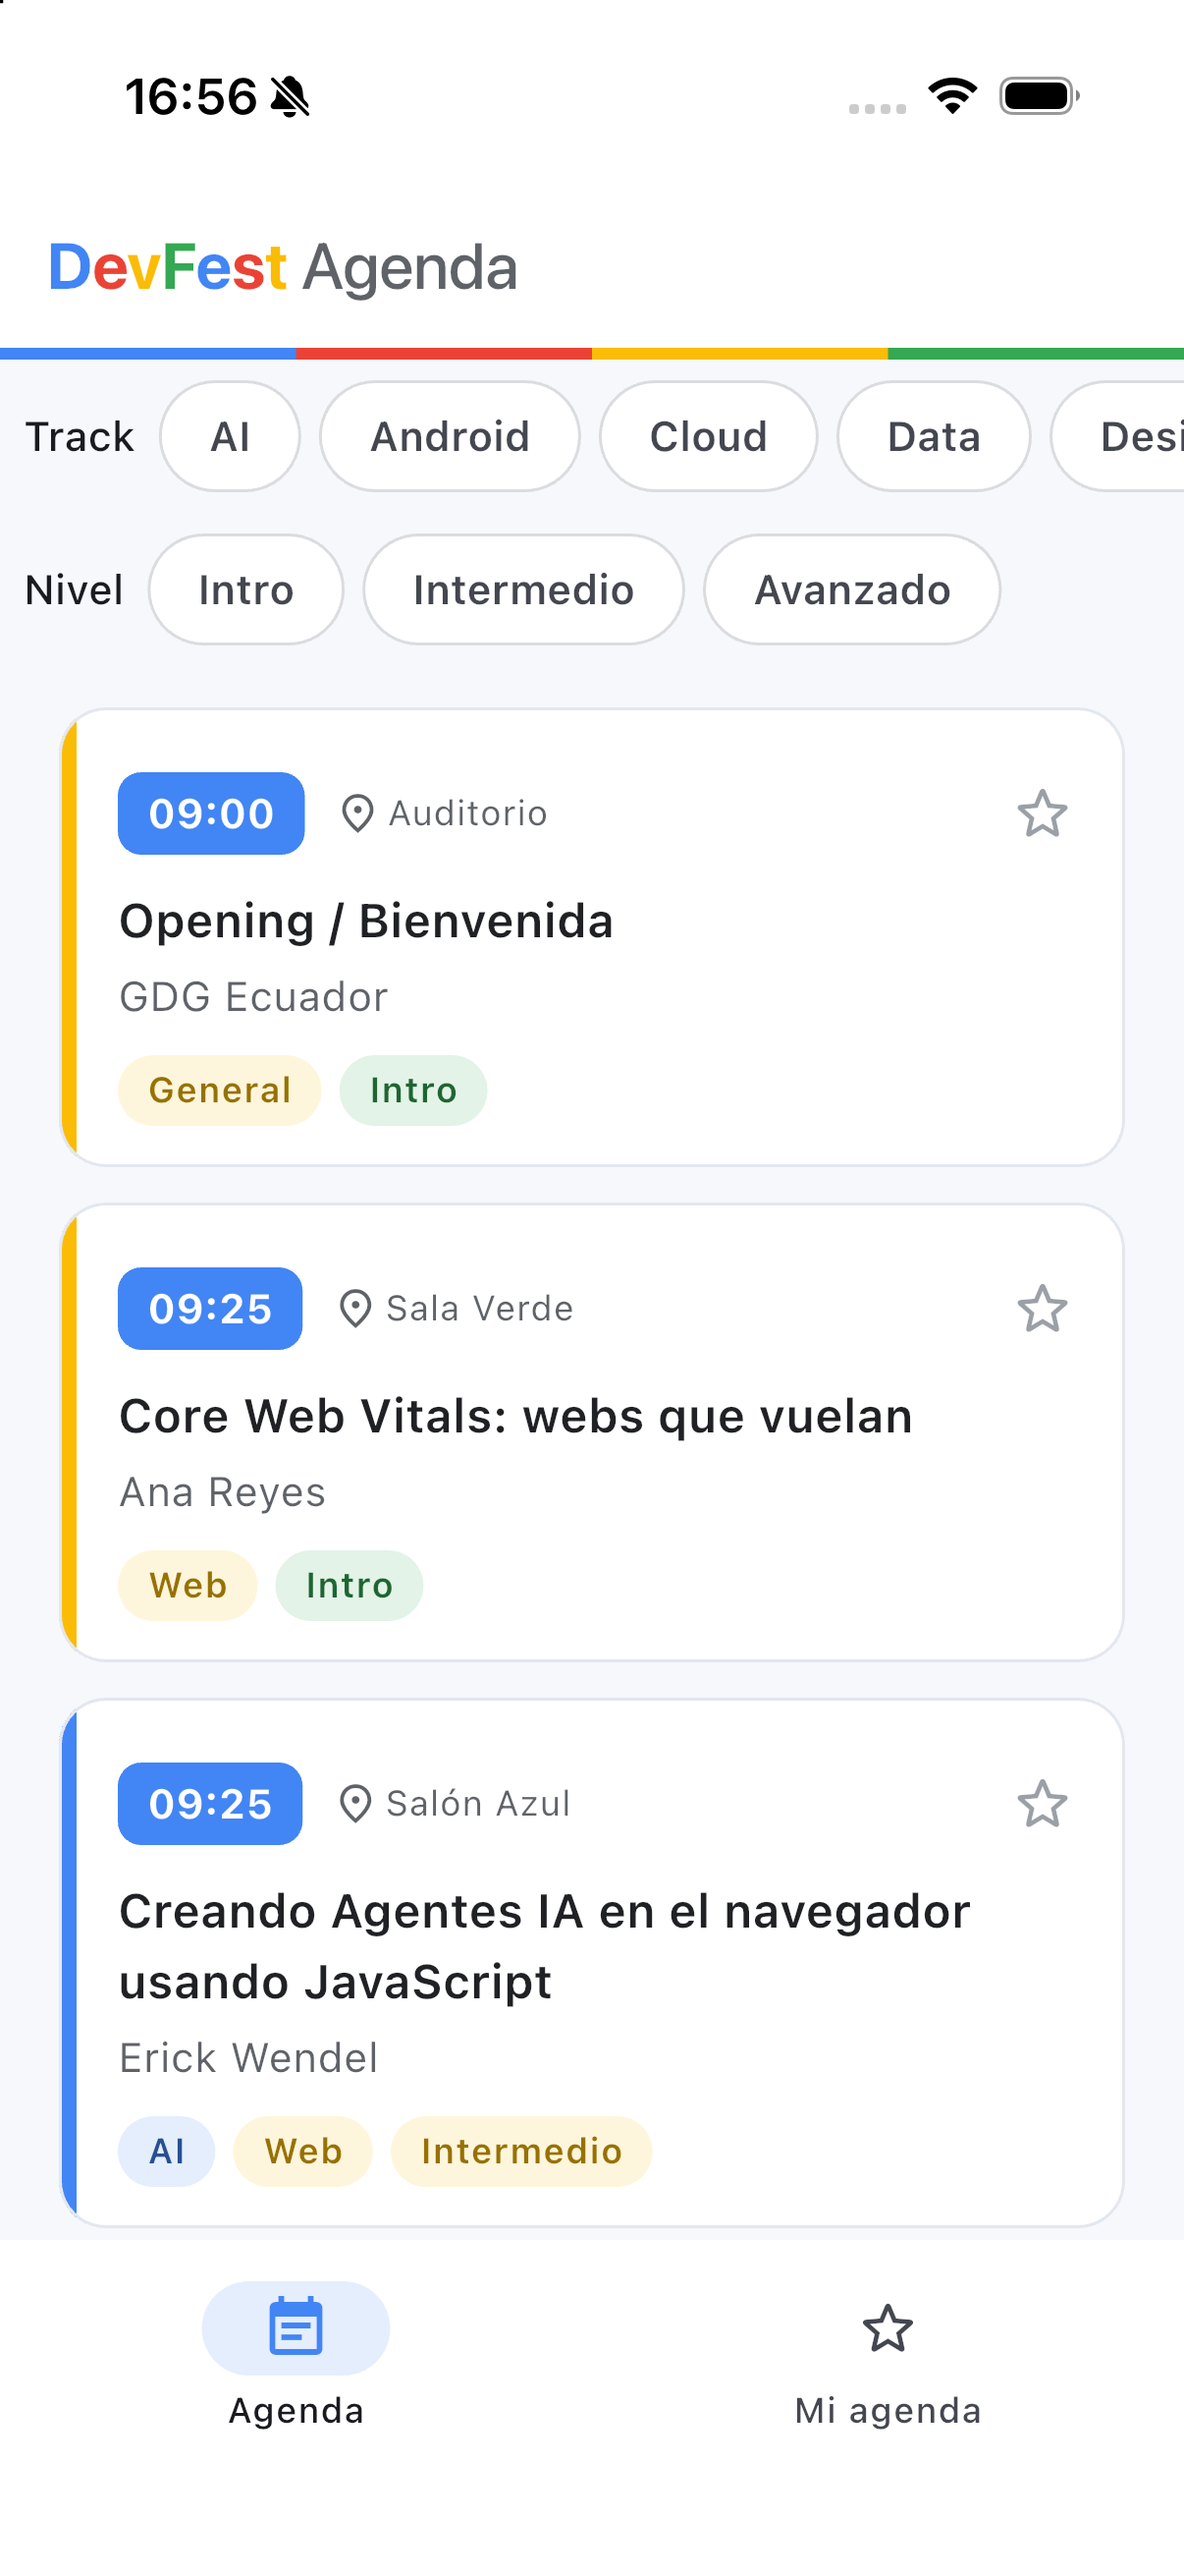
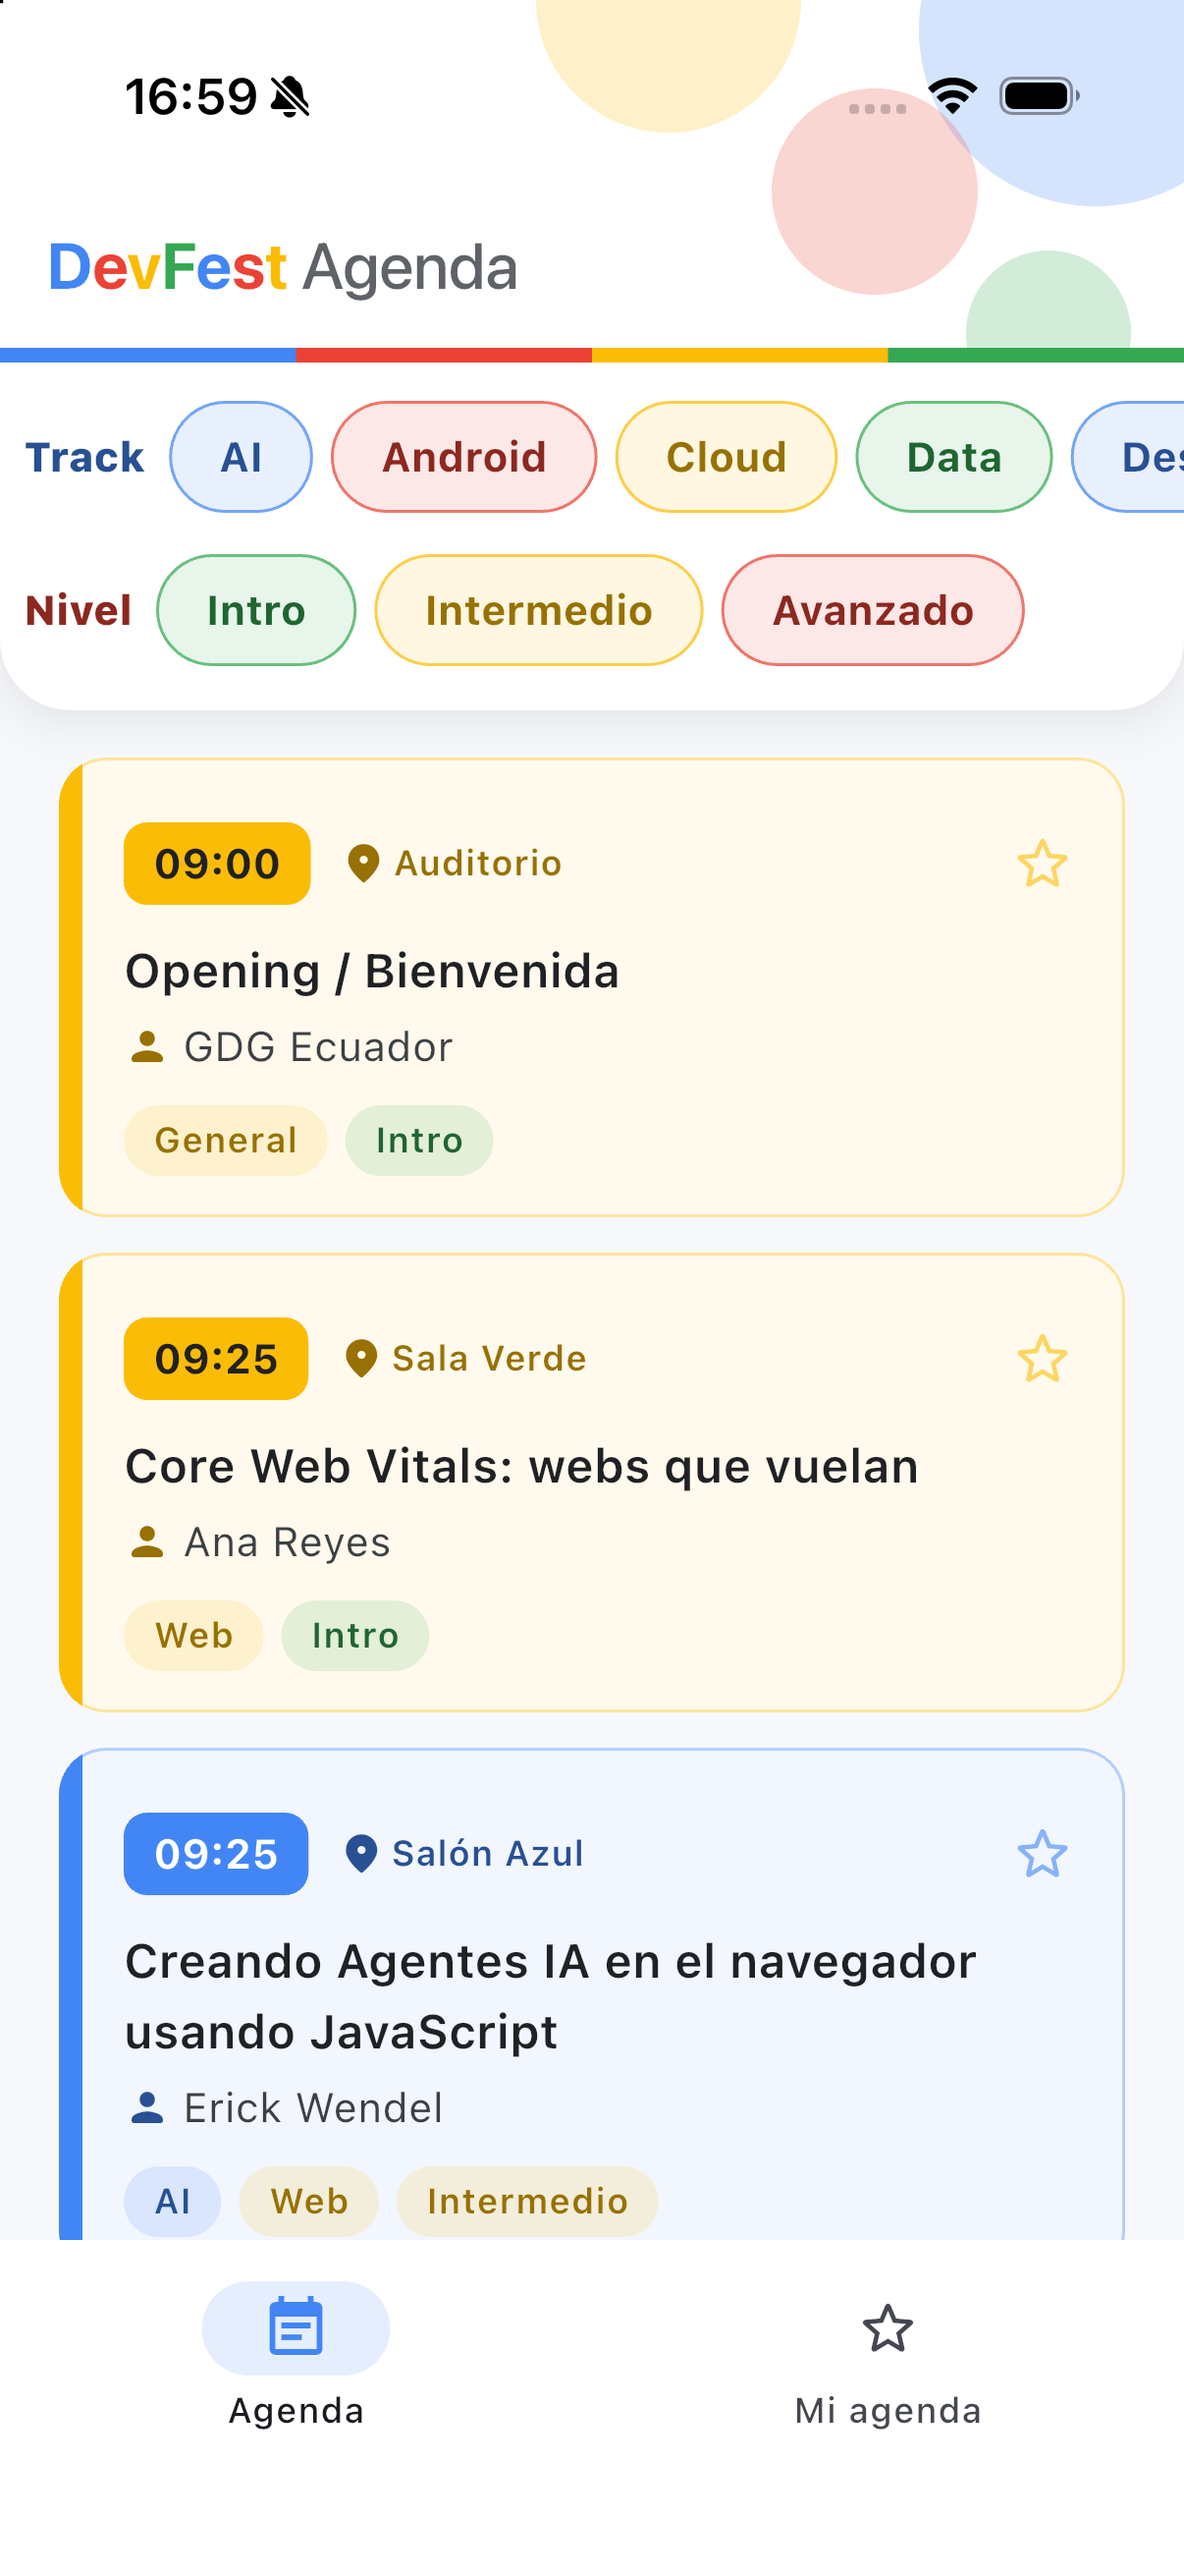
style: make agenda UI more colorful
- Decorative Google-color bubbles behind the AppBar.
- Filter chips tinted with their own track/level color; white filter panel.
- Session cards washed with their track color; time badge, room and
  speaker icons follow the accent.
- Detail header uses a gradient of the track color.
- Nav indicator follows the active tab color.

diff --git a/lib/widgets/session_card.dart b/lib/widgets/session_card.dart
@@ -24,13 +24,18 @@ class SessionCard extends StatelessWidget {
     final accent = GoogleColors.forKey(session.tracks.first);
     return Card(
       clipBehavior: Clip.antiAlias,
+      color: GoogleColors.wash(accent, 0.07),
+      shape: RoundedRectangleBorder(
+        borderRadius: BorderRadius.circular(16),
+        side: BorderSide(color: accent.withValues(alpha: 0.35)),
+      ),
       child: InkWell(
         onTap: onTap,
         child: IntrinsicHeight(
           child: Row(
             crossAxisAlignment: CrossAxisAlignment.stretch,
             children: [
-              ColoredBox(color: accent, child: const SizedBox(width: 6)),
+              ColoredBox(color: accent, child: const SizedBox(width: 8)),
               Expanded(
                 child: Padding(
                   padding: const EdgeInsets.fromLTRB(14, 12, 4, 14),
@@ -39,12 +44,12 @@ class SessionCard extends StatelessWidget {
                     children: [
                       Row(
                         children: [
-                          _TimeBadge(time: session.time),
+                          _TimeBadge(time: session.time, color: accent),
                           const SizedBox(width: 10),
-                          const Icon(
-                            Icons.place_outlined,
+                          Icon(
+                            Icons.place_rounded,
                             size: 16,
-                            color: Color(0xFF5F6368),
+                            color: GoogleColors.ink(accent),
                           ),
                           const SizedBox(width: 2),
                           Expanded(
@@ -52,7 +57,8 @@ class SessionCard extends StatelessWidget {
                               session.room,
                               overflow: TextOverflow.ellipsis,
                               style: theme.textTheme.bodySmall?.copyWith(
-                                color: const Color(0xFF5F6368),
+                                color: GoogleColors.ink(accent),
+                                fontWeight: FontWeight.w600,
                               ),
                             ),
                           ),
@@ -67,7 +73,7 @@ class SessionCard extends StatelessWidget {
                             ),
                             color: isFavorite
                                 ? GoogleColors.yellow
-                                : const Color(0xFF9AA0A6),
+                                : accent.withValues(alpha: 0.6),
                             onPressed: onToggleFavorite,
                           ),
                         ],
@@ -83,11 +89,23 @@ class SessionCard extends StatelessWidget {
                         ),
                       ),
                       const SizedBox(height: 4),
-                      Text(
-                        session.speaker,
-                        style: theme.textTheme.bodyMedium?.copyWith(
-                          color: const Color(0xFF5F6368),
-                        ),
+                      Row(
+                        children: [
+                          Icon(
+                            Icons.person_rounded,
+                            size: 16,
+                            color: GoogleColors.ink(accent),
+                          ),
+                          const SizedBox(width: 4),
+                          Expanded(
+                            child: Text(
+                              session.speaker,
+                              style: theme.textTheme.bodyMedium?.copyWith(
+                                color: const Color(0xFF3C4043),
+                              ),
+                            ),
+                          ),
+                        ],
                       ),
                       const SizedBox(height: 10),
                       Wrap(
@@ -118,22 +136,25 @@ class SessionCard extends StatelessWidget {
 }
 
 class _TimeBadge extends StatelessWidget {
-  const _TimeBadge({required this.time});
+  const _TimeBadge({required this.time, required this.color});
 
   final String time;
+  final Color color;
 
   @override
   Widget build(BuildContext context) {
     return Container(
       padding: const EdgeInsets.symmetric(horizontal: 10, vertical: 4),
       decoration: BoxDecoration(
-        color: GoogleColors.blue,
+        color: color,
         borderRadius: BorderRadius.circular(8),
       ),
       child: Text(
         time,
-        style: Theme.of(context).textTheme.labelLarge
-            ?.copyWith(color: Colors.white, fontWeight: FontWeight.w700),
+        style: Theme.of(context).textTheme.labelLarge?.copyWith(
+          color: GoogleColors.onColor(color),
+          fontWeight: FontWeight.w700,
+        ),
       ),
     );
   }

diff --git a/lib/screens/agenda_screen.dart b/lib/screens/agenda_screen.dart
@@ -54,21 +54,27 @@ class _AgendaScreenState extends State<AgendaScreen> {
     final filtered = _filtered;
     return Column(
       children: [
-        _ChipRow(
-          label: 'Track',
-          options: _tracks,
-          colorFor: GoogleColors.forKey,
-          selected: _selectedTrack,
-          onSelected: (v) => setState(() => _selectedTrack = v),
+        _FilterPanel(
+          children: [
+            _ChipRow(
+              label: 'Track',
+              labelColor: GoogleColors.blue,
+              options: _tracks,
+              colorFor: GoogleColors.forKey,
+              selected: _selectedTrack,
+              onSelected: (v) => setState(() => _selectedTrack = v),
+            ),
+            _ChipRow(
+              label: 'Nivel',
+              labelColor: GoogleColors.red,
+              options: _levels,
+              colorFor: GoogleColors.forLevel,
+              selected: _selectedLevel,
+              onSelected: (v) => setState(() => _selectedLevel = v),
+            ),
+          ],
         ),
-        _ChipRow(
-          label: 'Nivel',
-          options: _levels,
-          colorFor: GoogleColors.forLevel,
-          selected: _selectedLevel,
-          onSelected: (v) => setState(() => _selectedLevel = v),
-        ),
-        const SizedBox(height: 4),
+        const SizedBox(height: 6),
         Expanded(
           child: filtered.isEmpty
               ? const Center(child: Text('No hay sesiones con esos filtros.'))
@@ -86,6 +92,7 @@ class _AgendaScreenState extends State<AgendaScreen> {
 class _ChipRow extends StatelessWidget {
   const _ChipRow({
     required this.label,
+    required this.labelColor,
     required this.options,
     required this.colorFor,
     required this.selected,
@@ -93,6 +100,7 @@ class _ChipRow extends StatelessWidget {
   });
 
   final String label;
+  final Color labelColor;
   final List<String> options;
   final Color Function(String option) colorFor;
   final String? selected;
@@ -109,7 +117,13 @@ class _ChipRow extends StatelessWidget {
           Center(
             child: Padding(
               padding: const EdgeInsets.only(right: 8),
-              child: Text(label, style: Theme.of(context).textTheme.labelLarge),
+              child: Text(
+                label,
+                style: Theme.of(context).textTheme.labelLarge?.copyWith(
+                  color: GoogleColors.ink(labelColor),
+                  fontWeight: FontWeight.w800,
+                ),
+              ),
             ),
           ),
           for (final option in options)
@@ -119,22 +133,49 @@ class _ChipRow extends StatelessWidget {
                 label: Text(option),
                 selected: option == selected,
                 selectedColor: colorFor(option),
+                backgroundColor: GoogleColors.wash(colorFor(option), 0.12),
                 labelStyle: TextStyle(
                   color: option == selected
                       ? GoogleColors.onColor(colorFor(option))
-                      : null,
-                  fontWeight: FontWeight.w600,
+                      : GoogleColors.ink(colorFor(option)),
+                  fontWeight: FontWeight.w700,
                 ),
                 side: BorderSide(
-                  color: option == selected
-                      ? colorFor(option)
-                      : const Color(0xFFDADCE0),
+                  color: colorFor(option)
+                      .withValues(alpha: option == selected ? 1 : 0.45),
                 ),
                 onSelected: (isSelected) =>
                     onSelected(isSelected ? option : null),
               ),
             ),
         ],
+      ),
+    );
+  }
+}
+
+class _FilterPanel extends StatelessWidget {
+  const _FilterPanel({required this.children});
+
+  final List<Widget> children;
+
+  @override
+  Widget build(BuildContext context) {
+    return DecoratedBox(
+      decoration: const BoxDecoration(
+        color: Colors.white,
+        borderRadius: BorderRadius.vertical(bottom: Radius.circular(24)),
+        boxShadow: [
+          BoxShadow(
+            color: Color(0x14000000),
+            blurRadius: 12,
+            offset: Offset(0, 4),
+          ),
+        ],
+      ),
+      child: Padding(
+        padding: const EdgeInsets.only(top: 6, bottom: 8),
+        child: Column(children: children),
       ),
     );
   }

diff --git a/lib/screens/session_detail_screen.dart b/lib/screens/session_detail_screen.dart
@@ -52,9 +52,12 @@ class SessionDetailScreen extends StatelessWidget {
           Container(
             padding: const EdgeInsets.all(20),
             decoration: BoxDecoration(
-              color: GoogleColors.tint(accent),
-              borderRadius: BorderRadius.circular(20),
-              border: Border(left: BorderSide(color: accent, width: 6)),
+              gradient: LinearGradient(
+                begin: Alignment.topLeft,
+                end: Alignment.bottomRight,
+                colors: [accent, Color.lerp(accent, Colors.white, 0.3)!],
+              ),
+              borderRadius: BorderRadius.circular(24),
             ),
             child: Column(
               crossAxisAlignment: CrossAxisAlignment.start,
@@ -63,27 +66,40 @@ class SessionDetailScreen extends StatelessWidget {
                   spacing: 6,
                   runSpacing: 6,
                   children: [
-                    for (final track in session.tracks)
-                      ColorTag(label: track, color: GoogleColors.forKey(track)),
-                    ColorTag(
-                      label: session.level,
-                      color: GoogleColors.forLevel(session.level),
-                    ),
+                    for (final label in [...session.tracks, session.level])
+                      Container(
+                        padding: const EdgeInsets.symmetric(
+                          horizontal: 10,
+                          vertical: 4,
+                        ),
+                        decoration: BoxDecoration(
+                          color: Colors.white.withValues(alpha: 0.9),
+                          borderRadius: BorderRadius.circular(999),
+                        ),
+                        child: Text(
+                          label,
+                          style: theme.textTheme.labelMedium?.copyWith(
+                            color: GoogleColors.ink(accent),
+                            fontWeight: FontWeight.w700,
+                          ),
+                        ),
+                      ),
                   ],
                 ),
                 const SizedBox(height: 14),
                 Text(
                   session.title,
                   style: theme.textTheme.headlineSmall?.copyWith(
-                    fontWeight: FontWeight.w700,
-                    color: const Color(0xFF202124),
+                    fontWeight: FontWeight.w800,
+                    color: GoogleColors.onColor(accent),
                   ),
                 ),
                 const SizedBox(height: 8),
                 Text(
                   session.speaker,
                   style: theme.textTheme.titleMedium?.copyWith(
-                    color: GoogleColors.ink(accent),
+                    color: GoogleColors.onColor(accent),
+                    fontWeight: FontWeight.w600,
                   ),
                 ),
               ],

diff --git a/lib/widgets/google_branding.dart b/lib/widgets/google_branding.dart
@@ -90,3 +90,46 @@ class ColorTag extends StatelessWidget {
     );
   }
 }
+
+/// Fondo decorativo con círculos de los 4 colores de Google.
+class GoogleBubblesBackground extends StatelessWidget {
+  const GoogleBubblesBackground({super.key});
+
+  @override
+  Widget build(BuildContext context) {
+    return ClipRect(
+      child: Stack(
+        fit: StackFit.expand,
+        children: [
+          const ColoredBox(color: Colors.white),
+          _bubble(GoogleColors.blue, size: 120, right: -30, top: -50),
+          _bubble(GoogleColors.red, size: 70, right: 70, top: 30),
+          _bubble(GoogleColors.yellow, size: 90, right: 130, top: -45),
+          _bubble(GoogleColors.green, size: 56, right: 18, bottom: -18),
+        ],
+      ),
+    );
+  }
+
+  Widget _bubble(
+    Color color, {
+    required double size,
+    double? right,
+    double? top,
+    double? bottom,
+  }) {
+    return Positioned(
+      right: right,
+      top: top,
+      bottom: bottom,
+      child: Container(
+        width: size,
+        height: size,
+        decoration: BoxDecoration(
+          shape: BoxShape.circle,
+          color: color.withValues(alpha: 0.22),
+        ),
+      ),
+    );
+  }
+}

diff --git a/lib/main.dart b/lib/main.dart
@@ -74,7 +74,8 @@ class _HomePageState extends State<HomePage> {
           'DevFest',
           suffix: _tabIndex == 0 ? 'Agenda' : 'Mi agenda',
         ),
-        bottom: const GoogleColorStrip(),
+        flexibleSpace: const GoogleBubblesBackground(),
+        bottom: const GoogleColorStrip(height: 5),
       ),
       body: FutureBuilder<List<Session>>(
         future: _sessions,
@@ -105,6 +106,9 @@ class _HomePageState extends State<HomePage> {
       ),
       bottomNavigationBar: NavigationBar(
         selectedIndex: _tabIndex,
+        indicatorColor: GoogleColors.tint(
+          _tabIndex == 0 ? GoogleColors.blue : GoogleColors.yellow,
+        ),
         onDestinationSelected: (i) => setState(() => _tabIndex = i),
         destinations: const [
           NavigationDestination(

diff --git a/lib/theme/google_colors.dart b/lib/theme/google_colors.dart
@@ -49,4 +49,8 @@ abstract final class GoogleColors {
 
   /// Variante clara para fondos de etiquetas.
   static Color tint(Color color) => color.withValues(alpha: 0.14);
+
+  /// Fondo muy suave (opaco) del color, para superficies grandes.
+  static Color wash(Color color, [double amount = 0.08]) =>
+      Color.lerp(Colors.white, color, amount)!;
 }
